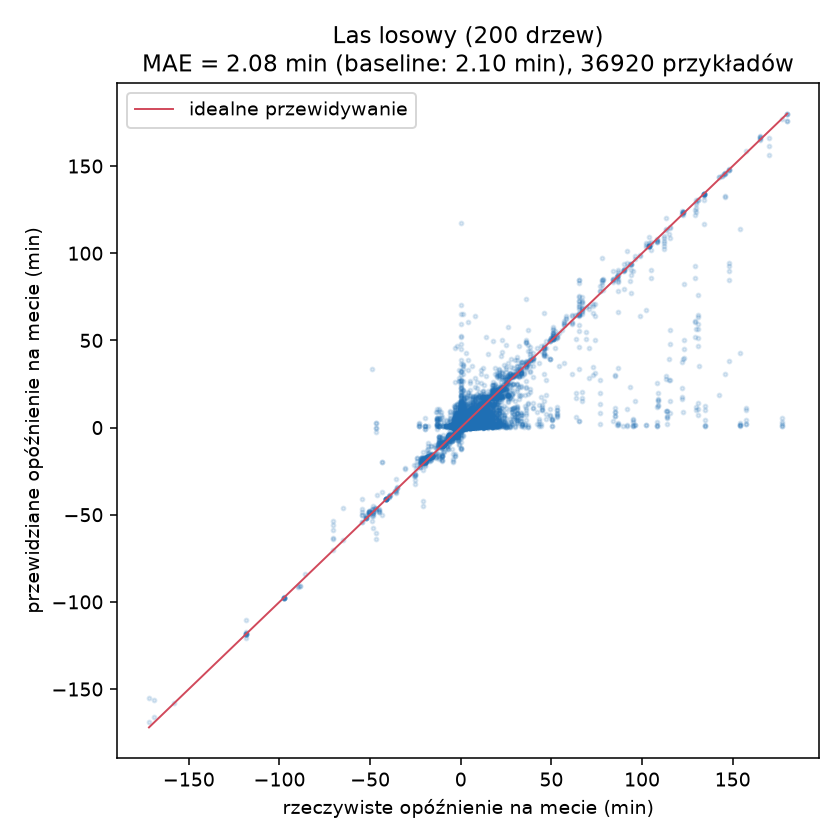
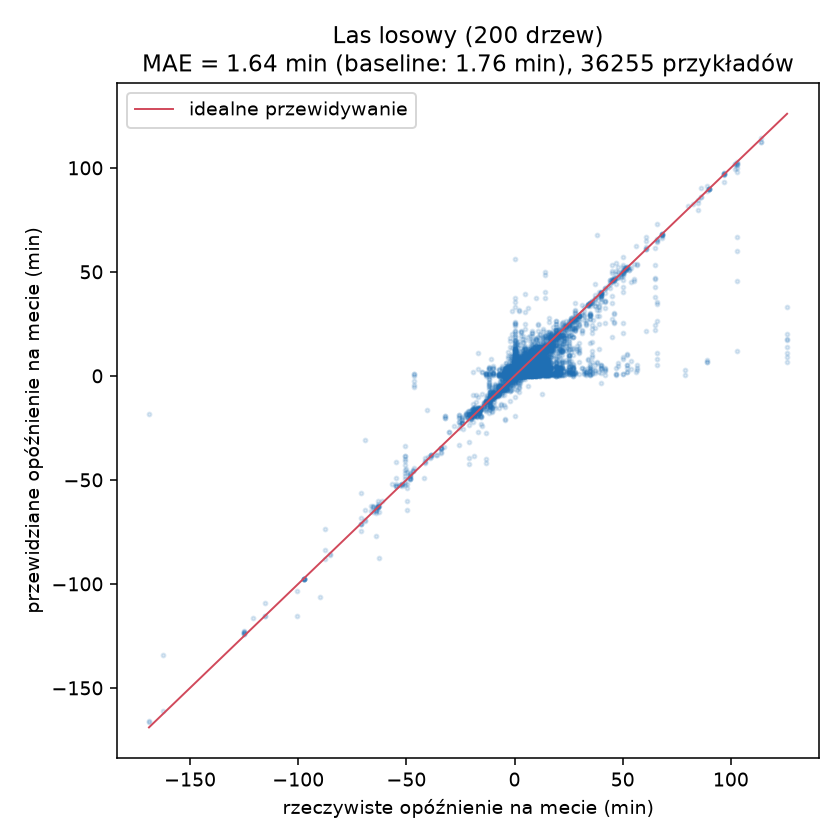
calculation_delay

diff --git a/ml/opoznienia/analyze_frequency.py b/ml/opoznienia/analyze_frequency.py
@@ -1,0 +1,148 @@
+#!/usr/bin/env python3
+"""Ćwiczenie: które kategorie pociągów i którzy przewoźnicy najczęściej i najmocniej
+się spóźniają. Inna granulacja niż prepare_delay_pairs.py (tam: wiele punktów na
+trasie na kurs, do regresji) — tu: dokładnie jeden wynik na ukończony kurs
+(trip_id + start_date), do prostych statystyk częstości.
+
+Nie jest to ML (żadnego uczenia) — to opisowa agregacja realnych opóźnień, punkt
+wyjścia pod ewentualny wskaźnik "% opóźnień" / "szacunkowy czas" w appce.
+
+Uruchomienie: python3 ml/opoznienia/analyze_frequency.py
+"""
+import json
+from pathlib import Path
+from statistics import mean, median
+
+REPO_ROOT = Path(__file__).resolve().parent.parent.parent
+DATA_DIR = REPO_ROOT / "train_visualization" / "data"
+DELAYS_PATH = Path(__file__).parent / "delays.jsonl"
+OUT_PATH = Path(__file__).parent / "frequency_stats.json"
+
+PLAUSIBLE_MAX_SEC = 3 * 3600
+DELAY_THRESHOLD_SEC = 5 * 60  # >5 min uznajemy za "opóźniony" dla liczenia %
+MIN_SAMPLES = 30              # grupy mniejsze pomijamy — za mało obserwacji na wniosek
+
+
+def find_scheduled(stops, station_idx, start_from):
+    for i in range(start_from, len(stops)):
+        if stops[i][0] == station_idx:
+            return stops[i][1], stops[i][2], i
+    return None
+
+
+def delay_of(obs, prefer="arr"):
+    keys = ("arr_delay_sec", "dep_delay_sec") if prefer == "arr" else ("dep_delay_sec", "arr_delay_sec")
+    for k in keys:
+        if k in obs:
+            return obs[k]
+    return None
+
+
+def final_delay_for(trip, obs):
+    """Opóźnienie na mecie trasy, tylko jeśli ten kurs w tej migawce faktycznie dojechał do końca."""
+    if not obs:
+        return None
+    stops = trip["stops"]
+    found = find_scheduled(stops, obs[-1]["station_idx"], 0)
+    if found is None:
+        return None
+    _dep, _arr, pos_last = found
+    if pos_last != len(stops) - 1:
+        return None
+    fd = delay_of(obs[-1], prefer="arr")
+    if fd is None or abs(fd) > PLAUSIBLE_MAX_SEC:
+        return None
+    return fd
+
+
+def group_stats(rows, key):
+    groups = {}
+    for r in rows:
+        groups.setdefault(r[key], []).append(r["final_delay_sec"])
+    out = []
+    for name, delays in groups.items():
+        n = len(delays)
+        if n < MIN_SAMPLES:
+            continue
+        delayed = [d for d in delays if d > DELAY_THRESHOLD_SEC]
+        pct_delayed = 100 * len(delayed) / n
+        out.append({
+            "name": name,
+            "n": n,
+            "pct_delayed_over_5min": round(pct_delayed, 1),
+            "mean_delay_min_all": round(mean(delays) / 60, 1),
+            "median_delay_min_if_delayed": round(median(delays) / 60, 1) if delayed else 0.0,
+        })
+    out.sort(key=lambda r: -r["pct_delayed_over_5min"])
+    return out
+
+
+def main():
+    trips = json.loads((DATA_DIR / "pociagi.json").read_text(encoding="utf-8"))["trips"]
+    if not DELAYS_PATH.exists():
+        print(f"Brak {DELAYS_PATH} — najpierw uruchom collect_delays.py.")
+        return
+
+    latest = {}  # (trip_id, start_date) -> ostatni znany kompletny wynik (jsonl jest chronologiczny)
+    total_lines = 0
+    for line in DELAYS_PATH.read_text(encoding="utf-8").splitlines():
+        total_lines += 1
+        rec = json.loads(line)
+        trip = trips[rec["trip_idx"]]
+        fd = final_delay_for(trip, rec["observations"])
+        if fd is None:
+            continue
+        key = (rec["trip_id"], rec.get("start_date"))
+        latest[key] = {
+            "route": trip.get("route") or "BRAK",
+            "op": trip.get("op") or "BRAK",
+            "num": trip.get("num"),
+            "dest": trip.get("dest"),
+            "final_delay_sec": fd,
+        }
+
+    rows = list(latest.values())
+    print(f"Rekordów (migawek) w delays.jsonl: {total_lines}")
+    print(f"Unikalnych ukończonych kursów (trip_id+data): {len(rows)}")
+    print(f"(uwaga: mniej niż surowa liczba migawek — ten sam kurs mógł być zapisany "
+          f"wielokrotnie zanim dojechał do celu; liczy się tylko raz, jego finalny wynik)\n")
+
+    overall_delayed = sum(1 for r in rows if r["final_delay_sec"] > DELAY_THRESHOLD_SEC)
+    print(f"=== CAŁA SIEĆ ===")
+    print(f"% kursów opóźnionych >5 min: {100*overall_delayed/len(rows):.1f}%")
+    print(f"Mediana opóźnienia (wśród opóźnionych): "
+          f"{median([r['final_delay_sec'] for r in rows if r['final_delay_sec'] > DELAY_THRESHOLD_SEC])/60:.1f} min\n")
+
+    by_route = group_stats(rows, "route")
+    by_op = group_stats(rows, "op")
+
+    print(f"=== WG KATEGORII (route), min. {MIN_SAMPLES} kursów ===")
+    print(f"{'kategoria':<10} {'n':>6} {'% opóźn. >5min':>15} {'śr. opóźn. (min)':>17} {'mediana gdy opóźn. (min)':>25}")
+    for r in by_route:
+        print(f"{r['name']:<10} {r['n']:>6} {r['pct_delayed_over_5min']:>14.1f}% "
+              f"{r['mean_delay_min_all']:>16.1f} {r['median_delay_min_if_delayed']:>24.1f}")
+
+    print(f"\n=== WG PRZEWOŹNIKA (op), min. {MIN_SAMPLES} kursów ===")
+    print(f"{'przewoźnik':<10} {'n':>6} {'% opóźn. >5min':>15} {'śr. opóźn. (min)':>17} {'mediana gdy opóźn. (min)':>25}")
+    for r in by_op:
+        print(f"{r['name']:<10} {r['n']:>6} {r['pct_delayed_over_5min']:>14.1f}% "
+              f"{r['mean_delay_min_all']:>16.1f} {r['median_delay_min_if_delayed']:>24.1f}")
+
+    excluded_routes = len(set(r["route"] for r in rows)) - len(by_route)
+    excluded_ops = len(set(r["op"] for r in rows)) - len(by_op)
+    print(f"\n(pominięto {excluded_routes} kategorii i {excluded_ops} przewoźników "
+          f"z <{MIN_SAMPLES} kursami — za mało obserwacji na wiarygodny wniosek)")
+
+    OUT_PATH.write_text(json.dumps({
+        "generated_from_snapshots": total_lines,
+        "unique_completed_trips": len(rows),
+        "delay_threshold_sec": DELAY_THRESHOLD_SEC,
+        "min_samples": MIN_SAMPLES,
+        "by_route": by_route,
+        "by_operator": by_op,
+    }, ensure_ascii=False, indent=2), encoding="utf-8")
+    print(f"\nZapisano {OUT_PATH}")
+
+
+if __name__ == "__main__":
+    main()
